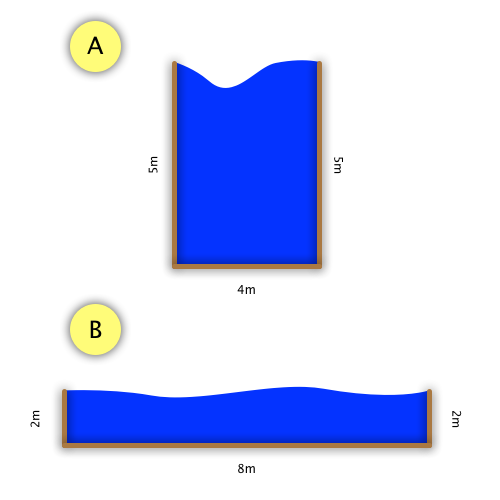
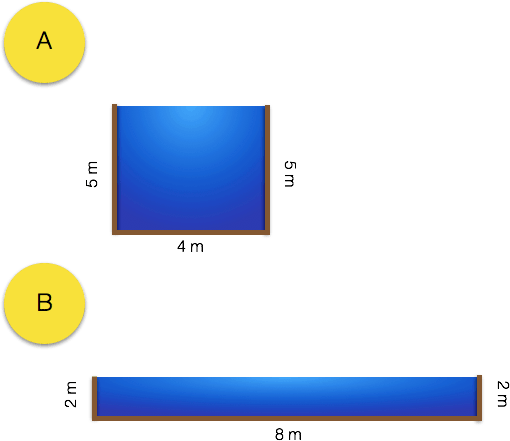
Converted hydraulic radius diagram to SVG format.

diff --git a/_posts/riversAndFlooding/2012-01-04-long-and-cross-profiles.md b/_posts/riversAndFlooding/2012-01-04-long-and-cross-profiles.md
@@ -104,7 +104,7 @@ The velocity at different points in a channel’s cross section can be illustrat
 [upper-course-x-section]: /Images/rivers/upper-course-cross-section.png
 [middle-course-x-section]: /Images/rivers/middle-course-cross-section.png
 [lower-course-x-section]: /Images/rivers/lower-course-cross-section.png
-[channel-efficiency-example-diagram]: /Images/rivers/channel-efficiency-example-diagram.png
+[channel-efficiency-example-diagram]: /Images/rivers/channel-efficiency-example-diagram.svg
 [channel-velocity-cross-section]: /Images/rivers/channel-velocity-cross-section.png
 
 
